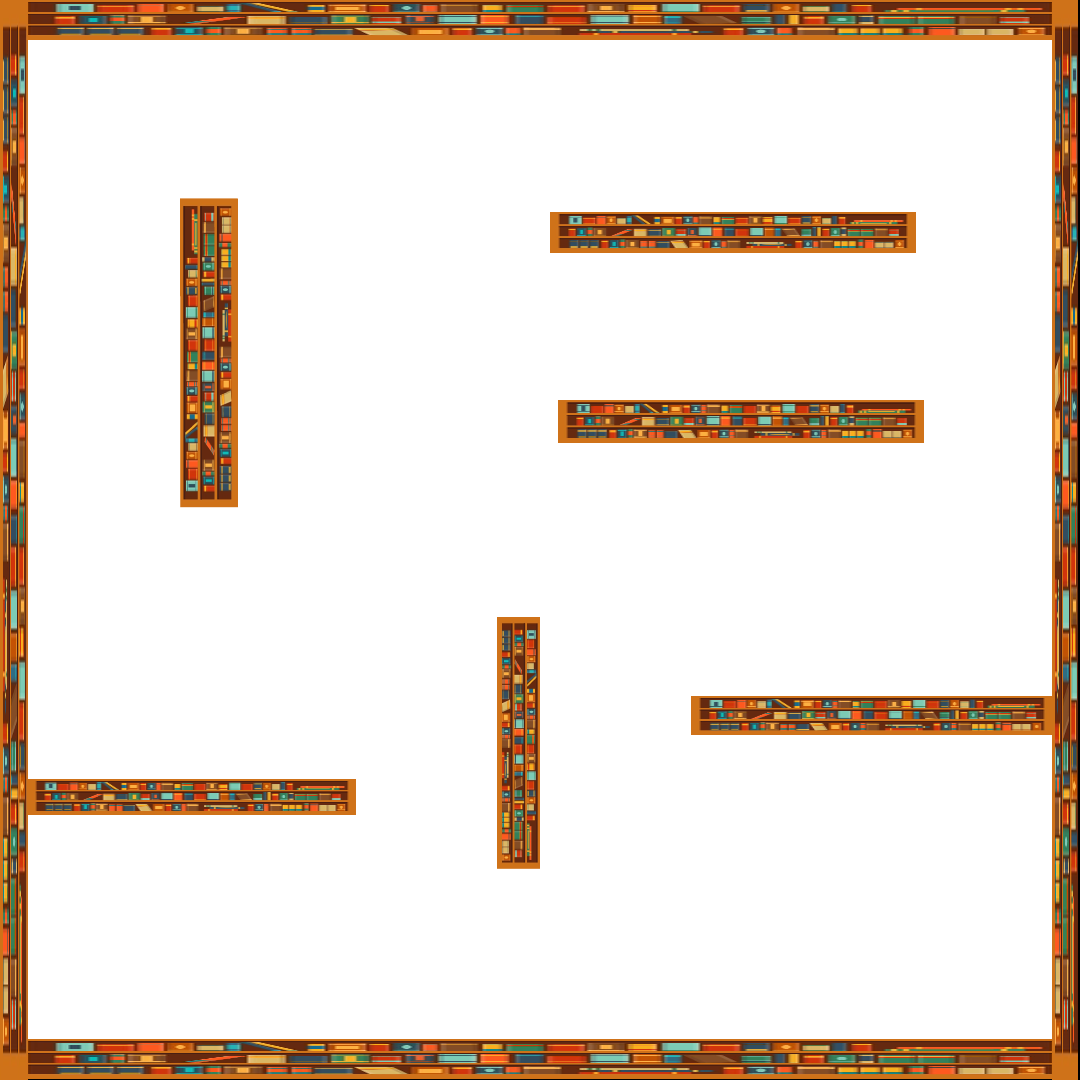
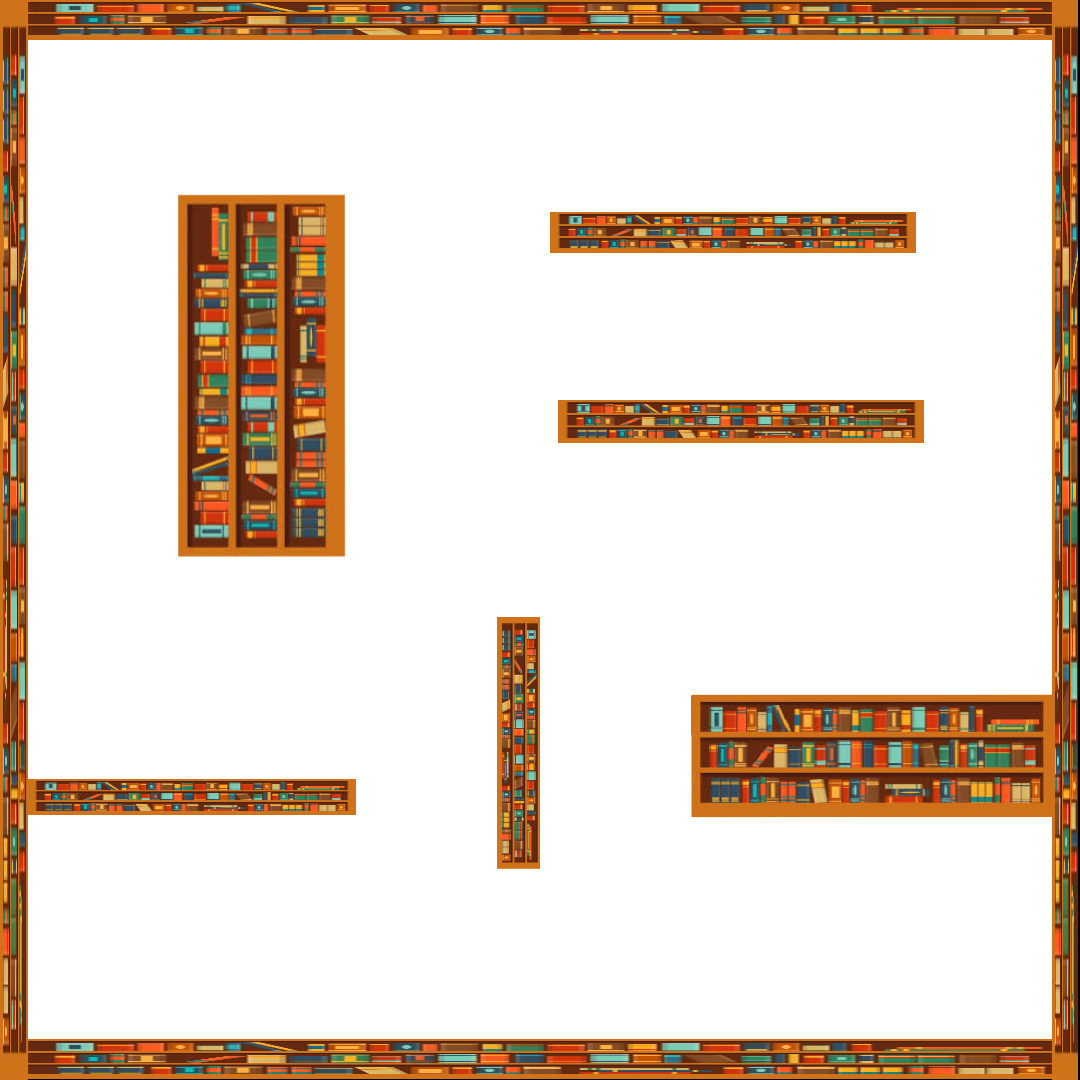
done

Changed region(s): [[0.1528, 0.1528, 0.3361, 0.5194], [0.6417, 0.6417, 0.9778, 0.7639]]

diff --git a/src/main.rs b/src/main.rs
@@ -30,6 +30,9 @@ fn window_conf() -> Conf {
 
 #[macroquad::main(window_conf)]
 async fn main() {
+
+
+    
     let mut img_lye = StillImage::new(
         "assets/lye.png",
         130.0, // width
@@ -43,10 +46,10 @@ async fn main() {
 
     let mut img_roy = StillImage::new(
         "assets/roy.png",
-        150.0, // width
-        150.0, // height
-        700.0, // x position
-        800.0, // y position
+        200.0, // width
+        200.0, // height
+        860.0, // x position
+        810.0, // y position
         true,  // Enable stretching
         1.0,   // Normal zoom (100%)
     )
@@ -56,8 +59,8 @@ async fn main() {
         "assets/rui.png",
         130.0, // width
         130.0, // height
-        660.0, // x position
-        270.0, // y position
+        650.0, // x position
+        260.0, // y position
         true,  // Enable stretching
         1.0,   // Normal zoom (100%)
     )
@@ -90,7 +93,7 @@ async fn main() {
     let mut lye_x = 0.0;
     let mut lye_y = 0.0;
 
-    let mut roy_x = 0.0;
+  let mut roy_x = 0.0;
     let mut roy_y = 0.0;
 
     let mut rui_x = 0.0;
@@ -110,20 +113,47 @@ async fn main() {
 
         // Lye's "AI"
         let mut lye_pos = img_lye.pos();
-        println!("Lye position: x:{:.1}, y:{:.1}", lye_pos.x, lye_pos.y);
-        if lye_pos.x == 900.0 && lye_pos.y == 70.0 {
+        //println!("Lye position: x:{:.1}, y:{:.1}", lye_pos.x, lye_pos.y);
+        if lye_pos.x == 900.0 && lye_pos.y == 70.0{
             lye_x = 0.0;
-            lye_y = 1.0;
+            lye_y = 2.0;
         }
-        if lye_pos.x == 900.0 && lye_pos.y == 500.0 {
-             lye_x  = -1.0;
+
+        if lye_pos.x == 900.0 && lye_pos.y == 500.0{
+             lye_x  = -2.0;
              lye_y  = 0.0;
+            }
 
 if lye_pos.x == 500.0 && lye_pos.y == 500.0 {
     lye_x = 0.0;
-    lye_y = -1.0;
+    lye_y = -2.0;
+}
 
-        }
+if lye_pos.x == 500.0 && lye_pos.y == 450.0 {
+    lye_x = -2.0;
+    lye_y = 0.0;
+}
+
+if lye_pos.x == 330.0 && lye_pos.y == 450.0 {
+    lye_x = 0.0;
+    lye_y = 2.0;
+}
+
+if lye_pos.x == 330.0 && lye_pos.y == 620.0 {
+    lye_x = -2.0;
+    lye_y = 0.0;
+}
+
+if lye_pos.x == 26.0 && lye_pos.y == 620.0 {
+    lye_x = 0.0;
+    lye_y = -2.0;
+}
+
+if lye_pos.x == 26.0 && lye_pos.y == 70.0 {
+    lye_x = 2.0;
+    lye_y = 0.0;
+}
+
           lye_pos.y += lye_y;
         lye_pos.x += lye_x;
         img_lye.set_position(lye_pos);
@@ -131,11 +161,110 @@ if lye_pos.x == 500.0 && lye_pos.y == 500.0 {
 
         // Roy's "AI"
         let mut roy_pos = img_roy.pos();
-        {}
+         //println!("Roy position: x:{:.1}, y:{:.1}", roy_pos.x, roy_pos.y);
+        if roy_pos.x == 860.0 && roy_pos.y == 810.0 {
+    roy_x = -1.0;
+    roy_y = 0.0;
+        }
+
+  if roy_pos.x == 450.0 && roy_pos.y == 810.0 {
+    roy_x = 0.0;
+    roy_y = -1.0;
+
+        }
+         if roy_pos.x == 450.0 && roy_pos.y == 440.0 {
+    roy_x = -1.0;
+    roy_y = 0.0;
+        }
+
+     if roy_pos.x == 300.0 && roy_pos.y == 440.0 {
+    roy_x = 0.0;
+    roy_y = 1.0;
+        }
+
+        if roy_pos.x == 300.0 && roy_pos.y == 800.0 {
+    roy_x = -1.0;
+    roy_y = 0.0;
+        }
+
+         if roy_pos.x == 30.0 && roy_pos.y == 800.0 {
+    roy_x = 0.0;
+    roy_y = 1.0;
+        }
+      if roy_pos.x == 30.0 && roy_pos.y == 850.0 {
+    roy_x = 1.0;
+    roy_y = 0.0;
+        }
+    if roy_pos.x == 860.0 && roy_pos.y == 850.0 {
+    roy_x = 0.0;
+    roy_y = -1.0;
+        }
+
+       roy_pos.y += roy_y;
+        roy_pos.x += roy_x;
+        img_roy.set_position(roy_pos);
 
         // Rui's "AI"
         let mut rui_pos = img_rui.pos();
-        {}
+         //println!("Rui position: x:{:.1}, y:{:.1}", rui_pos.x, rui_pos.y);
+        if rui_pos.x == 650.0 && rui_pos.y == 260.0 {
+    rui_x = 1.0;
+    rui_y = 0.0;
+}
+
+if rui_pos.x == 900.0 && rui_pos.y == 260.0 {
+    rui_x = 0.0;
+    rui_y = 1.0;
+}
+
+if rui_pos.x == 900.0 && rui_pos.y == 450.0 {
+    rui_x = -1.0;
+    rui_y = 0.0;
+}
+
+
+if rui_pos.x == 420.0 && rui_pos.y == 450.0 {
+    rui_x = 0.0;
+    rui_y = -1.0;
+}
+
+if rui_pos.x == 420.0 && rui_pos.y == 65.0 {
+    rui_x = 1.0;
+    rui_y = 0.0;
+}
+
+
+if rui_pos.x == 905.0 && rui_pos.y == 65.0 {
+    rui_x = 0.0;
+    rui_y = 1.0;
+}
+
+if rui_pos.x == 905.0 && rui_pos.y == 455.0 {
+    rui_x = -1.0;
+    rui_y = 0.0;
+}
+
+if rui_pos.x == 300.0 && rui_pos.y == 455.0 {
+    rui_x = 0.0;
+    rui_y = -1.0;
+}
+if rui_pos.x == 300.0 && rui_pos.y == 260.0 {
+    rui_x = 1.0;
+    rui_y = 0.0;
+}
+
+          rui_pos.y += rui_y;
+        rui_pos.x += rui_x;
+        img_rui.set_position(rui_pos);
+
+
+        // check for collision with player
+        if check_collision(&img_player, &img_lye, 1)
+        {
+            
+
+
+        }
 
         // Direction to move in
         let mut move_dir = vec2(0.0, 0.0);
@@ -200,4 +329,4 @@ if lye_pos.x == 500.0 && lye_pos.y == 500.0 {
         next_frame().await;
     }
 }
-}
+